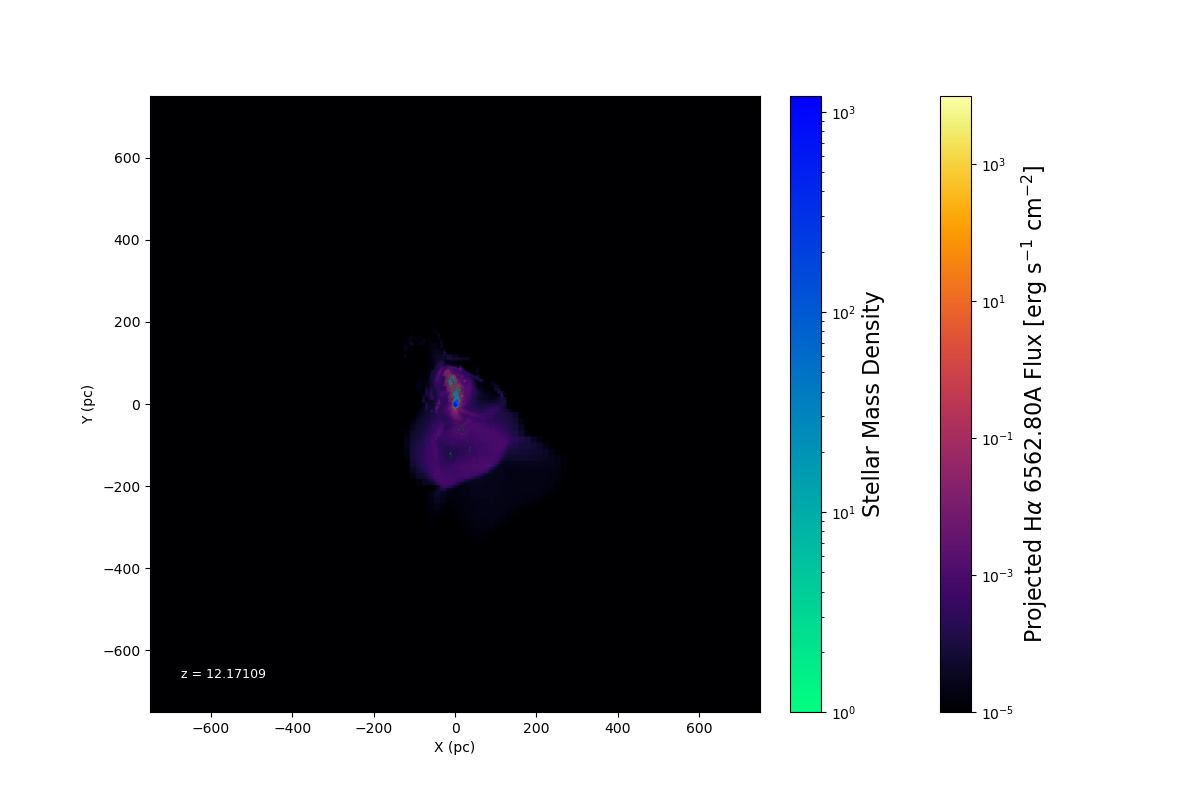
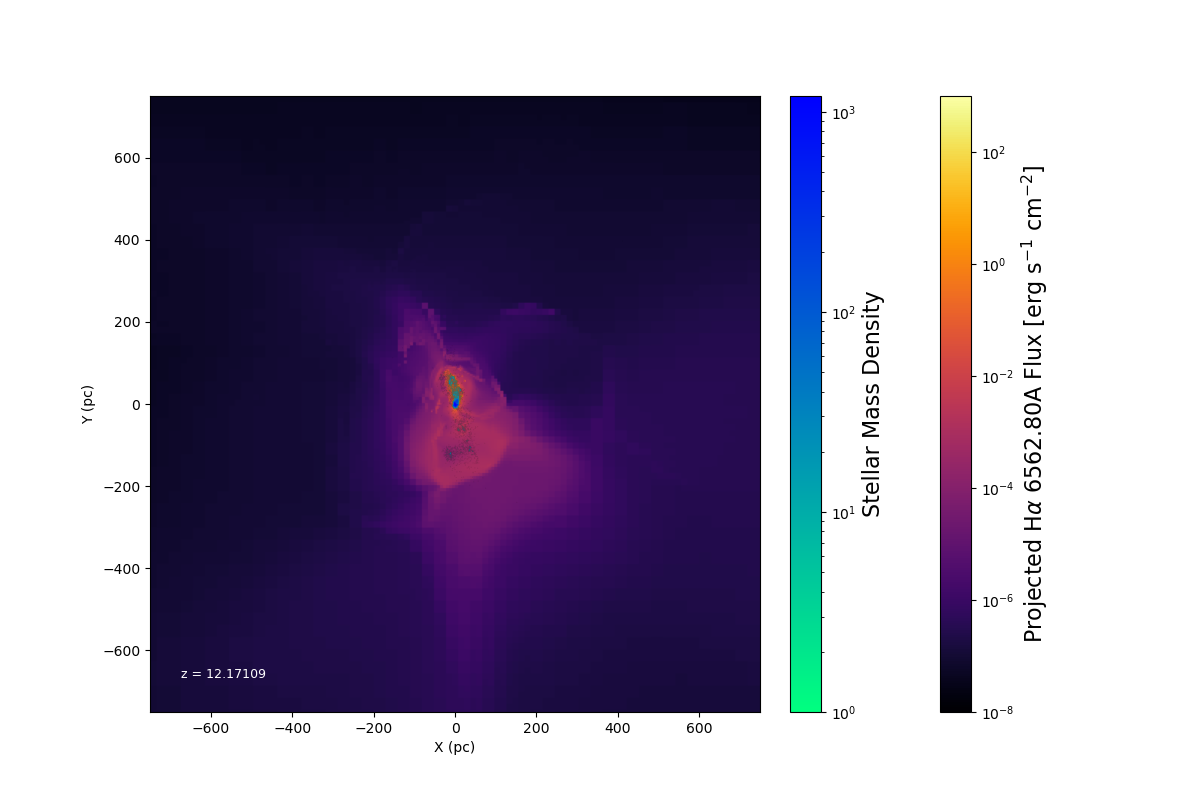
lims

diff --git a/main.py b/main.py
@@ -318,74 +318,81 @@ viz.calc_luminosities(sp)
 
 # Projection and Slice Plots
 
+'''
 lims_00273 = {
     'Ionization Parameter': [10e-7, 10e-1],
     'Number Density': [10e-2, 10e5],
     'Mass Density': [10e-26, 10e-19],
     'Temperature': [10e1, 10e6],
     'Metallicity': [10e-2, 10e1],
-    "H1_6562.80A": [10e-7, 10e2],
+    ('gas', "H1_6562.80A"): [10e-7, 10e2],
     "O1_1304.86A": [10e-9, 10e1],
     "O1_6300.30A": [10e-8, 10e-3],
     "O2_3728.80A": [10e-7, 10e-2],
     "O2_3726.10A": [10e-7, 10e-2],
     "O3_1660.81A": [10e-8, 10e-4],
-    "O3_1666.15A": [10e-8, 10e-3],
-    "O3_4363.21A": [10e-9, 10e-4],
-    "O3_4958.91A": [10e-8, 10e-3],
-    "O3_5006.84A": [10e-8, 10e-3], 
-    "He2_1640.41A": [10e-10, 10e-3],
-    "C2_1335.66A": [10e-8, 10e2],
-    "C3_1906.68A": [10e-7, 10e-2],
-    "C3_1908.73A": [10e-7, 10e-2],
-    "C4_1549.00A": [10e-16, 10e-9],
-    "Mg2_2795.53A": [10e-8, 10e2],
-    "Mg2_2802.71A": [10e-8, 10e2],
-    "Ne3_3868.76A": [10e-9, 10e-4],
-    "Ne3_3967.47A": [10e-9, 10e-5],
-    "N5_1238.82A": [10e-14, 10e-4],
-    "N5_1242.80A": [10e-14, 10e-4],
-    "N4_1486.50A": [10e-10, 10e-4],
-    "N3_1749.67A": [10e-8, 10e-4],
-    "S2_6716.44A": [10e-8, 10e-2],
-    "S2_6730.82A": [10e-8, 10e-3],
+    'O3_1666.15A': [10e-8, 10e-3],
+    'O3_4363.21A': [10e-9, 10e-4],
+    'O3_4958.91A': [10e-8, 10e-3],
+    'O3_5006.84A': [10e-8, 10e-3], 
+    'He2_1640.41A': [10e-10, 10e-3],
+    'C2_1335.66A': [10e-8, 10e2],
+    'C3_1906.68A': [10e-7, 10e-2],
+    'C3_1908.73A': [10e-7, 10e-2],
+    'C4_1549.00A': [10e-16, 10e-9],
+    'Mg2_2795.53A': [10e-8, 10e2],
+    'Mg2_2802.71A': [10e-8, 10e2],
+    'Ne3_3868.76A': [10e-9, 10e-4],
+    'Ne3_3967.47A': [10e-9, 10e-5],
+    'N5_1238.82A': [10e-14, 10e-4],
+    'N5_1242.80A': [10e-14, 10e-4],
+    'N4_1486.50A': [10e-10, 10e-4],
+    'N3_1749.67A': [10e-8, 10e-4],
+    'S2_6716.44A': [10e-8, 10e-2],
+    'S2_6730.82A': [10e-8, 10e-3],
     ('gas', 'flux_H1_6562.80A'): [10e-6, 10e3]
 }
+'''
 
-'''
 lims_fiducial_00319 = {
-    'Ionization Parameter': [10e-7, 10e0],
-    'Number Density': [10e-3, 10e2],
-    'Mass Density': [10e-27, 10e-20],
-    'Temperature': [10e2, 10e10],
-    'Metallicity': [10e-3, 10e0],
-    "H1_6562.80A": [10e-9, 10e2],
-    "O1_1304.86A": [10e-13, 10e-4],
-    "O1_6300.30A": [10e-12, 10e-3],
-    "O2_3728.80A": [10e-11, 10e-2],
-    "O2_3726.10A": [10e-11, 10e-2],
-    "O3_1660.81A": [10e-12, 10e-3],
-    "O3_1666.15A": [10e-11, 10e-3],
-    "O3_4363.21A": [10e-12, 10e-4],
-    "O3_4958.91A": [10e-11, 10e-3],
-    "O3_5006.84A": [10e-11, 10e-3], 
-    "He2_1640.41A": [10e-9, 10e-4],
-    "C2_1335.66A": [10e-12, 10e-3],
-    "C3_1906.68A": [10e-11, 10e-2],
-    "C3_1908.73A": [10e-10, 10e-3],
-    "C4_1549.00A": [10e-13, 10e-7],
-    "Mg2_2795.53A": [10e-11, 10e-2],
-    "Mg2_2802.71A": [10e-11, 10e-2],
-    "Ne3_3868.76A": [10e-12, 10e-4],
-    "Ne3_3967.47A": [10e-12, 10e-4],
-    "N5_1238.82A": [10e-8, 10e-3],
-    "N5_1242.80A": [10e-9, 10e-4],
-    "N4_1486.50A": [10e-12, 10e-3],
-    "N3_1749.67A": [10e-11, 10e-4],
-    "S2_6716.44A": [10e-11, 10e-3],
-    "S2_6730.82A": [10e-11, 10e-3]
+    ('gas', 'temperature'): [10e2, 10e10],
+    ('gas', 'density'): [10e-3, 10e2],
+    ('gas', 'my_H_nuclei_density'): [10e-3, 10e2],
+    ('gas', 'my_temperature'): [10e2, 10e10],
+    ('gas', 'ion_param'): [10e-7, 10e0],
+    ('gas', 'metallicity'): [10e-3, 10e0],
+    ('gas', 'OII_ratio'): [1e-5, 1.5],
+    ('ramses', 'xHI'): [1e-1, 1e0],
+    ('ramses', 'xHII'): [1e-1, 1e0],
+    ('ramses', 'xHeII'): [1e-1, 1e0],
+    ('ramses', 'xHeIII'): [1e-1, 1e0],
+    ('gas', 'flux_H1_6562.80A'): [10e-9, 10e2],
+    ('gas', 'flux_O1_1304.86A'): [10e-13, 10e-4],
+    ('gas', 'flux_O1_6300.30A'): [10e-12, 10e-3],
+    ('gas', 'flux_O2_3728.80A'): [10e-11, 10e-2],
+    ('gas', 'flux_O2_3726.10A'): [10e-11, 10e-2],
+    ('gas', 'flux_O3_1660.81A'): [10e-12, 10e-3],
+    ('gas', 'flux_O3_1666.15A'): [10e-11, 10e-3],
+    ('gas', 'flux_O3_4363.21A'): [10e-12, 10e-4],
+    ('gas', 'flux_O3_4958.91A'): [10e-11, 10e-3],
+    ('gas', 'flux_O3_5006.84A'): [10e-11, 10e-3], 
+    ('gas', 'flux_He2_1640.41A'): [10e-9, 10e-4],
+    ('gas', 'flux_C2_1335.66A'): [10e-12, 10e-3],
+    ('gas', 'flux_C3_1906.68A'): [10e-11, 10e-2],
+    ('gas', 'flux_C3_1908.73A'): [10e-10, 10e-3],
+    ('gas', 'flux_C4_1549.00A'): [10e-13, 10e-7],
+    ('gas', 'flux_Mg2_2795.53A'): [10e-11, 10e-2],
+    ('gas', 'flux_Mg2_2802.71A'): [10e-11, 10e-2],
+    ('gas', 'flux_Ne3_3868.76A'): [10e-12, 10e-4],
+    ('gas', 'flux_Ne3_3967.47A'): [10e-12, 10e-4],
+    ('gas', 'flux_N5_1238.82A'): [10e-8, 10e-3],
+    ('gas', 'flux_N5_1242.80A'): [10e-9, 10e-4],
+    ('gas', 'flux_N4_1486.50A'): [10e-12, 10e-3],
+    ('gas', 'flux_N3_1749.67A'): [10e-11, 10e-4],
+    ('gas', 'flux_S2_6716.44A'): [10e-11, 10e-3],
+    ('gas', 'flux_S2_6730.82A'): [10e-11, 10e-3]
 }
-'''
+
 # TODO lims
 
 field_list = [
@@ -395,7 +402,7 @@ field_list = [
     ('gas', 'my_temperature'),
     ('gas', 'ion_param'),
     ('gas', 'metallicity'),
-    #('gas', 'OII_ratio'),
+    ('gas', 'OII_ratio'),
     ('ramses', 'xHI'),
     ('ramses', 'xHII'),
     ('ramses', 'xHeII'),
@@ -409,7 +416,7 @@ weight_field_list = [
     ('gas', 'my_H_nuclei_density'),
     ('gas', 'my_H_nuclei_density'),
     ('gas', 'my_H_nuclei_density'),
-    #('gas', 'my_H_nuclei_density'),
+    ('gas', 'my_H_nuclei_density'),
     ('gas', 'my_H_nuclei_density'),
     ('gas', 'my_H_nuclei_density'),
     ('gas', 'my_H_nuclei_density'),
@@ -423,7 +430,7 @@ title_list = [
     'Temperature [K]',
     'Ionization Parameter',
     'Metallicity',
-    #r'OII Ratio 3728.80$\AA$/3726.10$\AA$',
+    r'OII Ratio 3728.80$\AA$/3726.10$\AA$',
     r'X$_{\text{HI}}$',
     r'X$_{\text{HII}}$',
     r'X$_{\text{HeII}}$',
@@ -454,8 +461,8 @@ for line in lines:
 
 
 viz.plot_wrapper(ds, sp, width, star_ctr, field_list,
-                     weight_field_list, title_list, proj=True, slc=False)
-
+                     weight_field_list, title_list, proj=True, slc=False,
+                     lims_dict=lims_fiducial_00319)
 
 
 # Phase Plots
@@ -503,7 +510,7 @@ viz.plot_cumulative_field(ds, sp, ('gas', 'flux_H1_6562.80A'),
 viz.star_gas_overlay(ds, ad, sp, star_ctr, width, ('gas', 'flux_H1_6562.80A'),
                     line_title.replace('_', ' ') + 
                             r' Flux [erg s$^{-1}$ cm$^{-2}$]', gas_flag=True,
-                            lims_dict=lims_00273)
+                            lims_dict=lims_fiducial_00319)
 
 # TODO OII ratio
 # TODO lims - fix dicts

diff --git a/MERLIN/galaxy_visualization.py b/MERLIN/galaxy_visualization.py
@@ -276,7 +276,7 @@ class VisualizationManager:
 
     def plot_wrapper(self, ds, sp, width, center, field_list,
                      weight_field_list, title_list, proj=True, slc=True,
-                     lims_dict=None, lims_titles=None):
+                     lims_dict=None):
         '''
         Wrapper for plotting a variety of fields simultaneously.
 
@@ -294,8 +294,6 @@ class VisualizationManager:
         title_list (List of str): list of titles associated with plots
         lims_dict (None or Dict): dictionary of [vmin, vmax] fixed limits on
             colorbar values for image if desired; otherwise None
-        lims_titles (List, str): titles associated with lims_dict for
-            corresponding fields
 
         Returns:
         --------
@@ -319,7 +317,7 @@ class VisualizationManager:
                     p_img = self.convert_to_plt(p, 'proj', field, width,
                                                 redshift,
                                                 'Projected ' + title_list[i],
-                                                lims_dict[lims_titles[i]])
+                                                lims_dict[field])
 
             if slc:
                 p = self.slc_plot(ds, width, center, field)
@@ -331,7 +329,7 @@ class VisualizationManager:
                 else:
                     p_img = self.convert_to_plt(p, 'slc', field, width,
                                                 redshift, title_list[i],
-                                                lims_dict[lims_titles[i]])
+                                                lims_dict[field])
                     
             p_img_arr.append(p_img)
         
